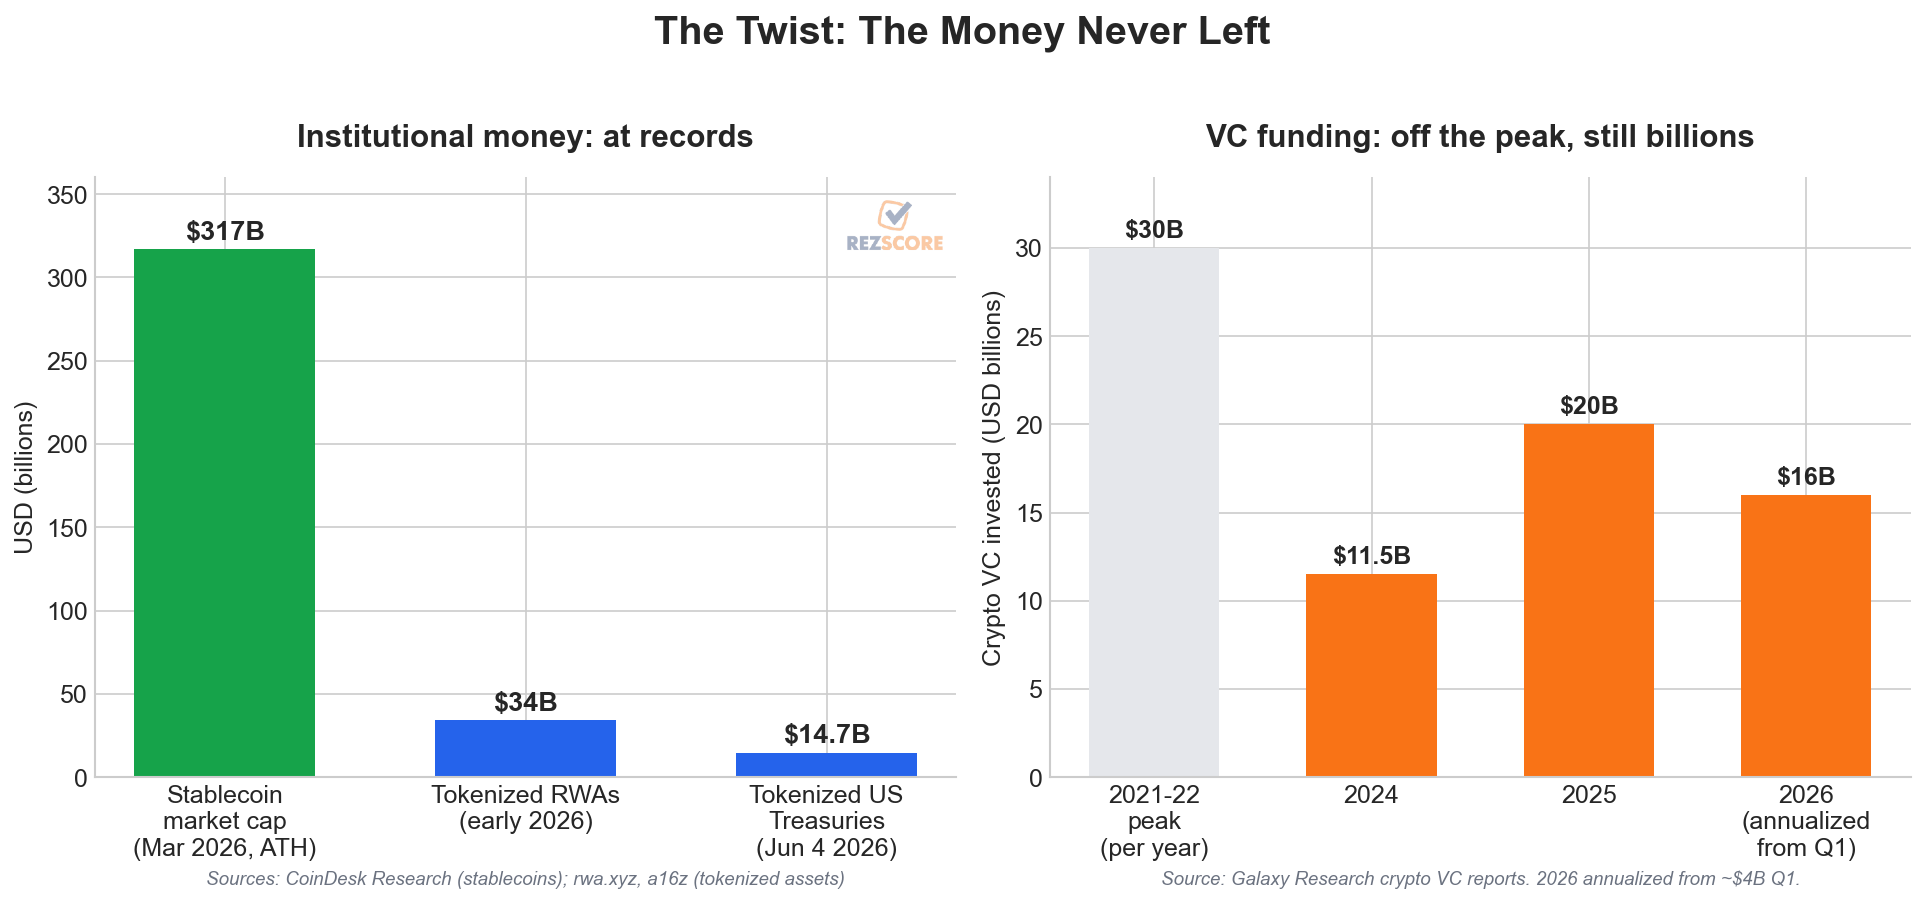
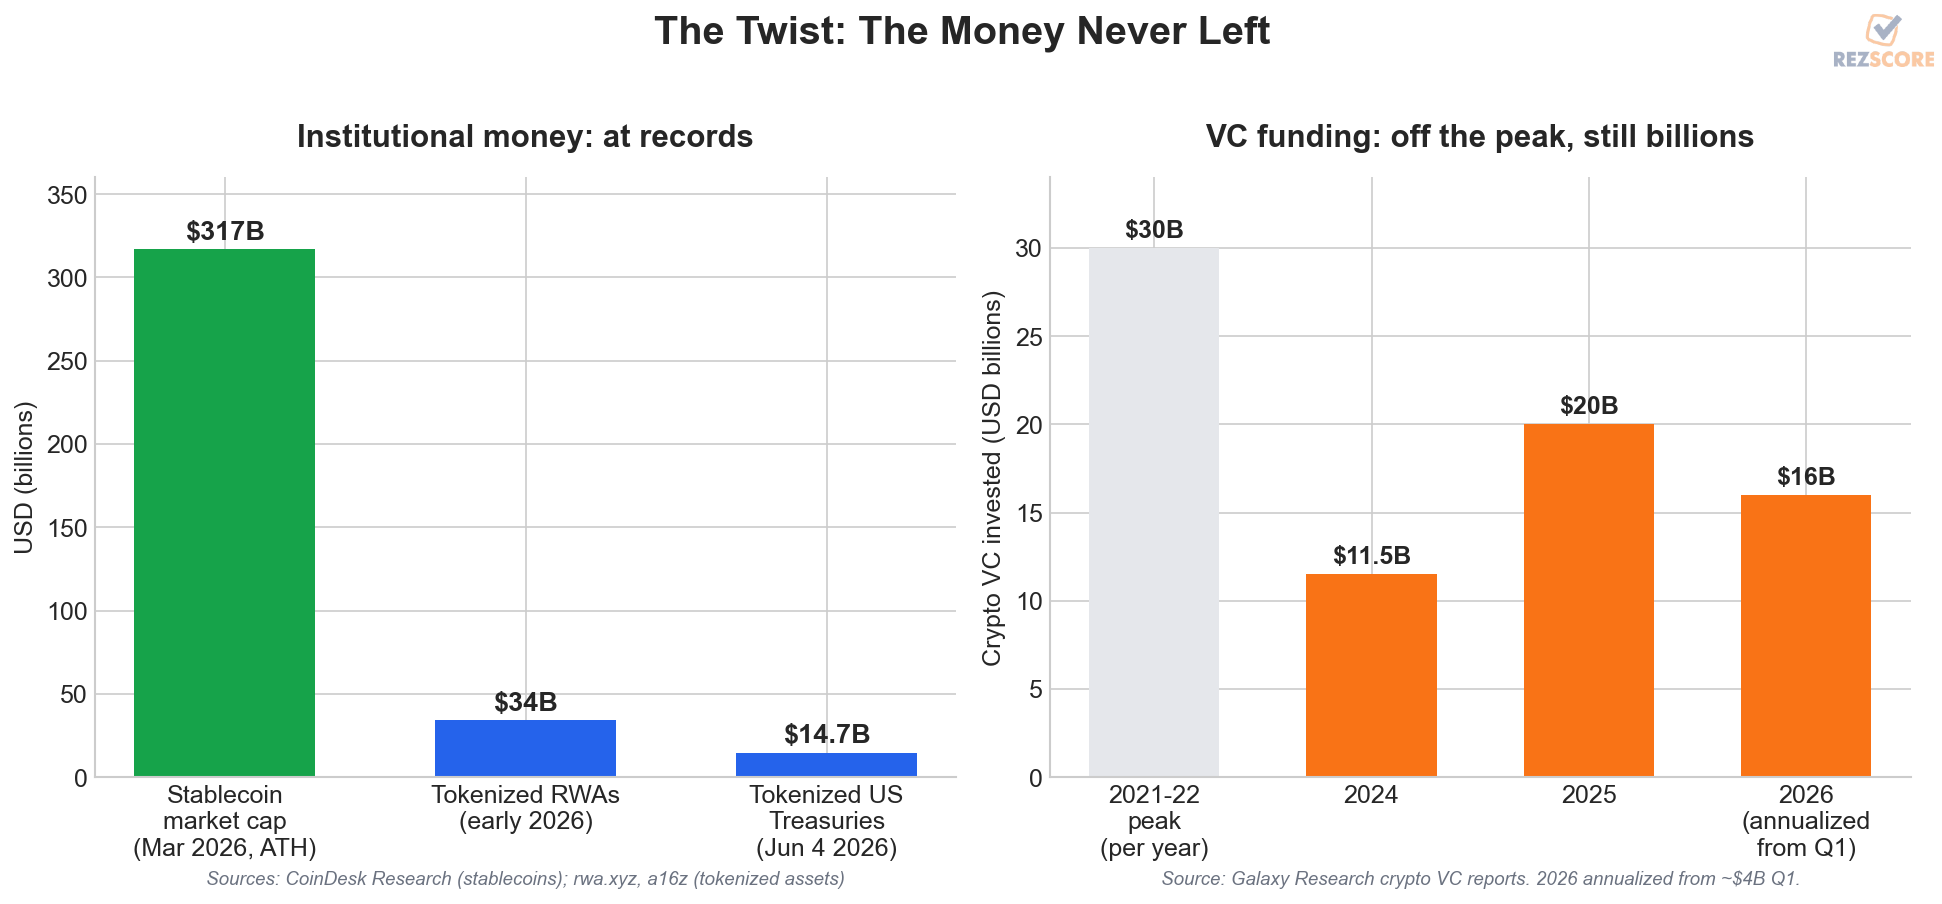
Polish c1 + move watermark to whole-figure corner
- Watermark now top-right of the full image (figure fraction), not inside a panel.
- c1: add verified 2025 layoffs (~123K) so the year series is 2024/2025/2026
  (no missing-year gap); comma-format y-axis; shorten 2026 label and both
  source captions to one line each.
- README: add the 2025 layoffs row.

diff --git a/generate_crypto_blog_charts.py b/generate_crypto_blog_charts.py
@@ -33,26 +33,25 @@ _LOGO_PATH = (
 )
 
 
-def add_watermark(ax, alpha=0.45, zoom=0.32, loc=(0.99, 0.97)):
-    """Place a small, faint RezScore logo in a corner of `ax`.
+def add_watermark(fig, alpha=0.45, zoom=0.34, loc=(0.995, 0.995)):
+    """Place a small, faint RezScore logo in the top-right of the whole figure.
 
-    Uses an AnnotationBbox in axes-fraction coords so it survives tight_layout
-    and bbox_inches='tight' (unlike figimage, which gets recropped). `loc` is the
-    (x, y) anchor in axes fraction; default top-right where chart whitespace lives.
-    Silently no-ops if the logo file is missing so generation never hard-fails.
+    Anchored in figure-fraction coords (not a single panel) so it reads as the
+    image's watermark rather than floating inside the left chart. Uses an
+    AnnotationBbox attached to the figure, which survives tight_layout and
+    bbox_inches='tight'. No-ops if the logo file is missing.
     """
     if not _LOGO_PATH.exists():
         print(f"  (watermark skipped - logo not found at {_LOGO_PATH})")
         return
     logo = mpimg.imread(str(_LOGO_PATH))
     imagebox = OffsetImage(logo, zoom=zoom, alpha=alpha)
-    imagebox.image.axes = ax
     ab = AnnotationBbox(
-        imagebox, loc, xycoords='axes fraction',
+        imagebox, loc, xycoords='figure fraction',
         box_alignment=(1, 1),  # anchor the logo's top-right corner at loc
         frameon=False, pad=0, zorder=20,
     )
-    ax.add_artist(ab)
+    fig.add_artist(ab)
 
 # Set style (matches generate_blog_charts.py)
 plt.style.use('seaborn-v0_8-whitegrid')
@@ -74,24 +73,30 @@ def chart_1_labor_bear_market():
     """The tech labor downturn, concentrated at the entry level.
 
     Sources:
-    - layoffs.fyi (as of early June 2026): 152,922 cuts 2024; 165,269 partial 2026.
+    - layoffs.fyi (as of early June 2026): 152,922 cuts 2024; ~123,000 in 2025
+      (~20% below 2024, "lowest since 2022"); 165,269 partial 2026.
     - Stanford Digital Economy Lab, "Canaries in the Coal Mine?" (Nov 2025):
       young (22-25) AI-exposed workers ~-16% relative; young software devs ~-20%
       from late-2022 peak (descriptive, not clean AI causation).
     """
+    from matplotlib.ticker import FuncFormatter
+
     fig, (ax1, ax2) = plt.subplots(1, 2, figsize=(13, 6))
 
     # --- Left panel: layoffs by year ---
-    years = ['2024', '2026\n(partial,\nthru early Jun)']
-    layoffs = [152922, 165269]  # layoffs.fyi
-    bars = ax1.bar(years, layoffs, color=[GRAY, DANGER_RED], width=0.55)
-    for bar, val in zip(bars, layoffs):
-        ax1.text(bar.get_x() + bar.get_width() / 2, val + 3000, f'{val:,}',
-                 ha='center', fontsize=13, fontweight='bold')
+    years = ['2024', '2025', '2026\n(through June)']
+    layoffs = [152922, 123000, 165269]  # layoffs.fyi; 2025 ~123K (sources vary 257-269 cos)
+    is_approx = [False, True, False]
+    bars = ax1.bar(years, layoffs, color=[GRAY, GRAY, DANGER_RED], width=0.62)
+    for bar, val, approx in zip(bars, layoffs, is_approx):
+        label = f'~{val:,}' if approx else f'{val:,}'
+        ax1.text(bar.get_x() + bar.get_width() / 2, val + 3000, label,
+                 ha='center', fontsize=12, fontweight='bold')
     ax1.set_ylabel('Tech employees laid off', fontsize=12)
     ax1.set_ylim(0, 195000)
+    ax1.yaxis.set_major_formatter(FuncFormatter(lambda v, _: f'{int(v):,}'))
     ax1.set_title('The layoffs never stopped', fontsize=15, fontweight='bold', pad=15)
-    ax1.text(0.5, -0.16, 'Source: layoffs.fyi tracker (crowd-aggregated), as of early June 2026',
+    ax1.text(0.5, -0.14, 'Source: layoffs.fyi (2025 approx.; sources vary)',
              ha='center', fontsize=9, color=GRAY, style='italic', transform=ax1.transAxes)
     ax1.spines['top'].set_visible(False)
     ax1.spines['right'].set_visible(False)
@@ -117,16 +122,14 @@ def chart_1_labor_bear_market():
     ax2.set_xlim(-28, 13)
     ax2.set_xlabel('Employment change', fontsize=12)
     ax2.set_title('The bottom rung broke first', fontsize=15, fontweight='bold', pad=15)
-    ax2.text(0.5, -0.16,
-             'Source: Stanford Digital Economy Lab, "Canaries in the Coal Mine?" (Nov 2025).\n'
-             'Young-dev figure is descriptive, not a clean measure of AI causation.',
+    ax2.text(0.5, -0.14, 'Source: Stanford Digital Economy Lab (Nov 2025)',
              ha='center', fontsize=9, color=GRAY, style='italic', transform=ax2.transAxes)
     ax2.spines['top'].set_visible(False)
     ax2.spines['right'].set_visible(False)
 
     fig.suptitle('Bear Market #1: Tech Labor', fontsize=19, fontweight='bold', y=1.02)
     plt.tight_layout()
-    add_watermark(ax1)  # left panel has open space at top-right
+    add_watermark(fig)  # top-right of the whole image
     plt.savefig(OUTPUT_DIR / 'c1_labor_bear_market.png', dpi=150, bbox_inches='tight',
                 facecolor='white', edgecolor='none')
     plt.close()
@@ -175,7 +178,7 @@ def chart_2_crypto_drawdown():
     ax.spines['right'].set_visible(False)
 
     plt.tight_layout()
-    add_watermark(ax)  # bars hang down from 0; top-right corner is clear
+    add_watermark(fig)  # top-right of the whole image
     plt.savefig(OUTPUT_DIR / 'c2_crypto_drawdown.png', dpi=150, bbox_inches='tight',
                 facecolor='white', edgecolor='none')
     plt.close()
@@ -227,7 +230,7 @@ def chart_3_crypto_split_screen():
 
     fig.suptitle('The Twist: The Money Never Left', fontsize=19, fontweight='bold', y=1.02)
     plt.tight_layout()
-    add_watermark(ax1)  # left panel: tall first bar, but right side is open
+    add_watermark(fig)  # top-right of the whole image
     plt.savefig(OUTPUT_DIR / 'c3_crypto_split_screen.png', dpi=150, bbox_inches='tight',
                 facecolor='white', edgecolor='none')
     plt.close()
@@ -295,7 +298,7 @@ def chart_4_code_vs_coders():
     fig.suptitle('More Code, Fewer Coders (the facts; the conclusion is the argument)',
                  fontsize=17, fontweight='bold', y=1.00)
     plt.tight_layout(rect=[0, 0.06, 1, 1])
-    add_watermark(ax1, loc=(0.99, 0.99))  # left panel top-right is open whitespace
+    add_watermark(fig)  # top-right of the whole image
     plt.savefig(OUTPUT_DIR / 'c4_code_vs_coders.png', dpi=150, bbox_inches='tight',
                 facecolor='white', edgecolor='none')
     plt.close()

diff --git a/README.md b/README.md
@@ -39,6 +39,7 @@ our standard, we dropped it. We say so explicitly below.
 | Claim | Figure | Source | As of |
 |-------|--------|--------|-------|
 | Tech layoffs, 2024 | 152,922 across 551 companies | [layoffs.fyi](https://layoffs.fyi/) (crowd-aggregated tracker) | early Jun 2026 |
+| Tech layoffs, 2025 | ~123,000 (~20% below 2024, lowest since 2022; company count varies 257-269 by source) | [layoffs.fyi](https://layoffs.fyi/) | full-year 2025 |
 | Tech layoffs, 2026 (partial) | 165,269 across 1,064 companies | [layoffs.fyi](https://layoffs.fyi/) | early Jun 2026 |
 | Young (22-25) AI-exposed workers | ~16% relative employment decline | [Stanford Digital Economy Lab, "Canaries in the Coal Mine?"](https://digitaleconomy.stanford.edu/app/uploads/2025/11/CanariesintheCoalMine_Nov25.pdf) | Nov 2025 |
 | Young software developers | ~20% below late-2022 peak (descriptive) | [Stanford, "Canaries in the Coal Mine?"](https://digitaleconomy.stanford.edu/app/uploads/2025/11/CanariesintheCoalMine_Nov25.pdf) | Nov 2025 |
